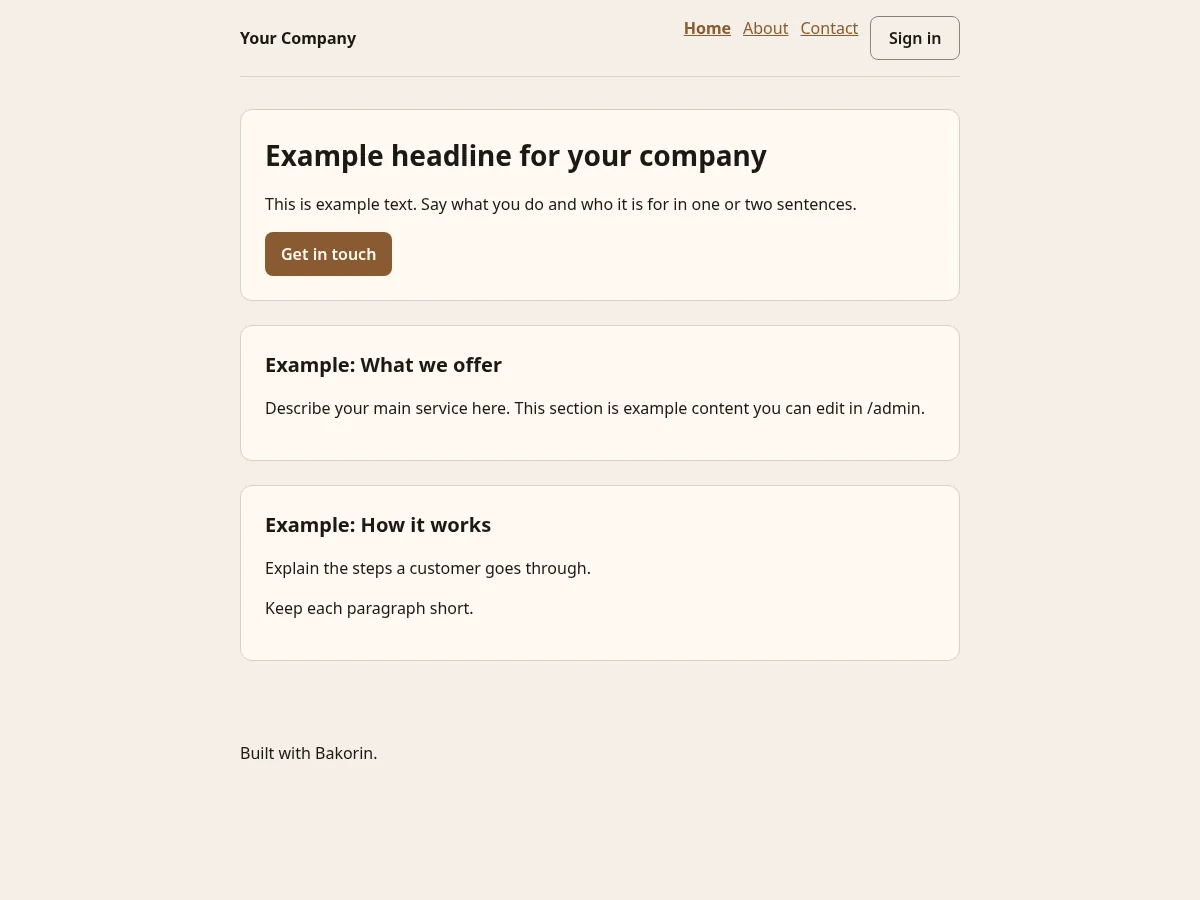
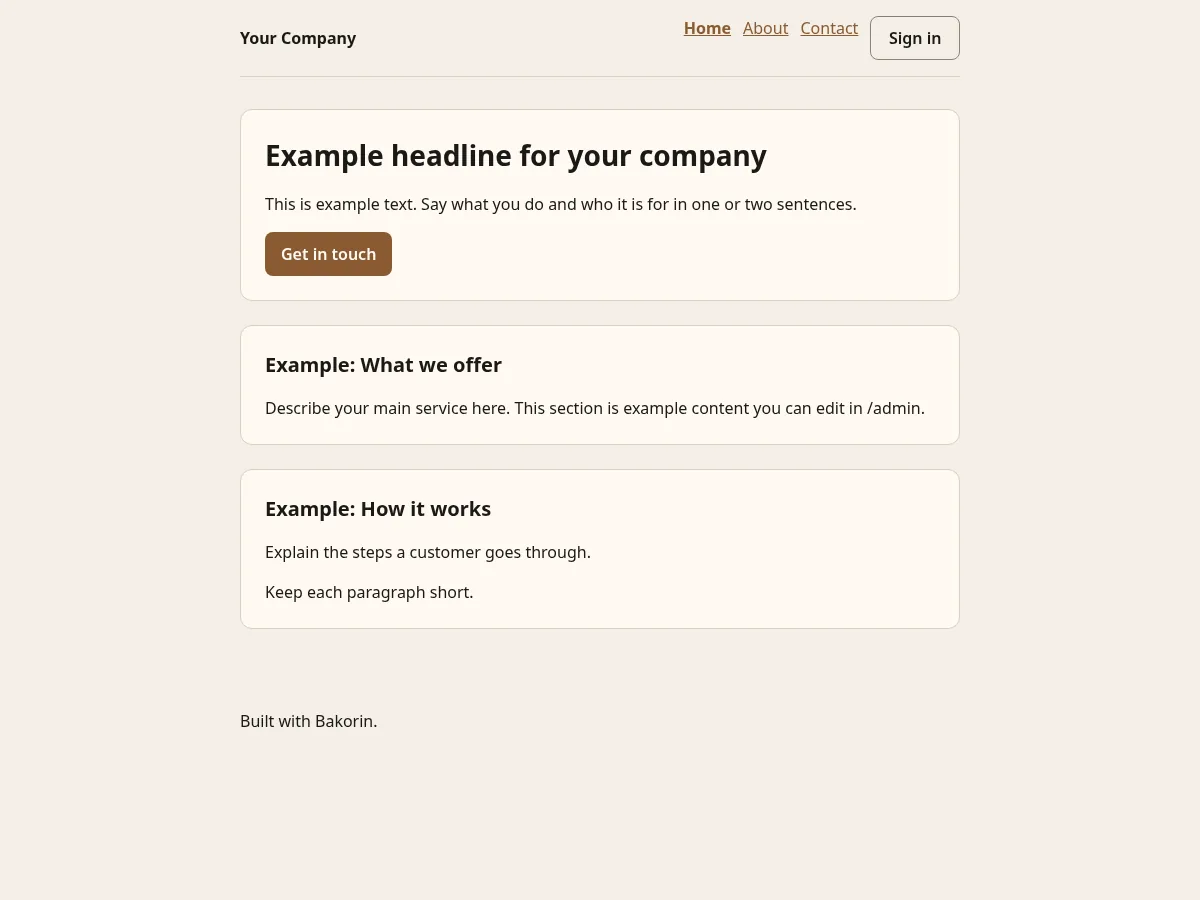
Templates: even card spacing and heights on dashboards and grids
- One 24px rhythm between page blocks (.wrap > * + *) instead of .card + .card,
  which pushed the second card in a side by side row down.
- Side by side cards stretch to one height and share a top edge; columns use
  minmax(0, ...) so long content cannot widen them. Stacks below 800px.
- Cards end on their padding; tile bodies fill the tile.
- Recaptured the template screenshots.

Changed region(s): [[0.2158, 0.56, 0.4933, 0.6844], [0.185, 0.7778, 0.3083, 0.84]]

diff --git a/examples/next-starter/app/globals.css b/examples/next-starter/app/globals.css
@@ -32,7 +32,10 @@
 * { box-sizing: border-box; }
 .skip { position: absolute; left: 8px; top: -48px; padding: 8px 12px; background: var(--paper); border-radius: 8px; }
 .skip:focus { top: 8px; }
-.card + .card { margin-top: 24px; }
+/* Page rhythm: the same 24px between every block on a page. Grids set their own gaps. */
+.wrap > * + * { margin-top: 24px; }
+/* Cards end on their padding, not on a stray paragraph margin. */
+.card > :last-child { margin-bottom: 0; }
 h2 { margin: 0 0 8px; font-size: 1.25rem; }
 html, body { margin: 0; min-height: 100%; background: var(--bg); color: var(--ink); font-family: var(--sans); line-height: 1.5; }
 a { color: var(--accent); }
@@ -111,8 +114,10 @@ nav a[aria-current="page"] {
 }
 
 .tile-body {
+  flex: 1;
   padding: 16px;
   display: grid;
+  align-content: start;
   gap: 6px;
 }
 
@@ -162,8 +167,9 @@ nav a[aria-current="page"] {
 
 @media (min-width: 800px) {
   .split {
-    grid-template-columns: 2fr 1fr;
-    align-items: start;
+    grid-template-columns: minmax(0, 2fr) minmax(0, 1fr);
+    /* Cards side by side share one height and one top edge. */
+    align-items: stretch;
   }
 }
 
@@ -202,10 +208,6 @@ nav a[aria-current="page"] {
   padding: 16px;
   border-radius: 8px;
   margin: 0 0 24px;
-}
-
-.section + .section {
-  margin-top: 24px;
 }
 
 .facts {

diff --git a/packages/create-bakorin/templates/next/app/globals.css b/packages/create-bakorin/templates/next/app/globals.css
@@ -32,7 +32,10 @@
 * { box-sizing: border-box; }
 .skip { position: absolute; left: 8px; top: -48px; padding: 8px 12px; background: var(--paper); border-radius: 8px; }
 .skip:focus { top: 8px; }
-.card + .card { margin-top: 24px; }
+/* Page rhythm: the same 24px between every block on a page. Grids set their own gaps. */
+.wrap > * + * { margin-top: 24px; }
+/* Cards end on their padding, not on a stray paragraph margin. */
+.card > :last-child { margin-bottom: 0; }
 h2 { margin: 0 0 8px; font-size: 1.25rem; }
 html, body { margin: 0; min-height: 100%; background: var(--bg); color: var(--ink); font-family: var(--sans); line-height: 1.5; }
 a { color: var(--accent); }
@@ -111,8 +114,10 @@ nav a[aria-current="page"] {
 }
 
 .tile-body {
+  flex: 1;
   padding: 16px;
   display: grid;
+  align-content: start;
   gap: 6px;
 }
 
@@ -162,8 +167,9 @@ nav a[aria-current="page"] {
 
 @media (min-width: 800px) {
   .split {
-    grid-template-columns: 2fr 1fr;
-    align-items: start;
+    grid-template-columns: minmax(0, 2fr) minmax(0, 1fr);
+    /* Cards side by side share one height and one top edge. */
+    align-items: stretch;
   }
 }
 
@@ -202,10 +208,6 @@ nav a[aria-current="page"] {
   padding: 16px;
   border-radius: 8px;
   margin: 0 0 24px;
-}
-
-.section + .section {
-  margin-top: 24px;
 }
 
 .facts {

diff --git a/examples/astro-starter/src/styles/app.css b/examples/astro-starter/src/styles/app.css
@@ -46,8 +46,14 @@
   top: 8px;
 }
 
-.card + .card {
+/* Page rhythm: the same 24px between every block on a page. Grids set their own gaps. */
+.wrap > * + * {
   margin-top: 24px;
+}
+
+/* Cards end on their padding, not on a stray paragraph margin. */
+.card > :last-child {
+  margin-bottom: 0;
 }
 
 h2 {
@@ -268,8 +274,10 @@ nav a[aria-current="page"] {
 }
 
 .tile-body {
+  flex: 1;
   padding: 16px;
   display: grid;
+  align-content: start;
   gap: 6px;
 }
 
@@ -319,8 +327,9 @@ nav a[aria-current="page"] {
 
 @media (min-width: 800px) {
   .split {
-    grid-template-columns: 2fr 1fr;
-    align-items: start;
+    grid-template-columns: minmax(0, 2fr) minmax(0, 1fr);
+    /* Cards side by side share one height and one top edge. */
+    align-items: stretch;
   }
 }
 
@@ -359,10 +368,6 @@ nav a[aria-current="page"] {
   padding: 16px;
   border-radius: 8px;
   margin: 0 0 24px;
-}
-
-.section + .section {
-  margin-top: 24px;
 }
 
 .facts {

diff --git a/packages/create-bakorin/templates/astro/src/styles/app.css b/packages/create-bakorin/templates/astro/src/styles/app.css
@@ -46,8 +46,14 @@
   top: 8px;
 }
 
-.card + .card {
+/* Page rhythm: the same 24px between every block on a page. Grids set their own gaps. */
+.wrap > * + * {
   margin-top: 24px;
+}
+
+/* Cards end on their padding, not on a stray paragraph margin. */
+.card > :last-child {
+  margin-bottom: 0;
 }
 
 h2 {
@@ -268,8 +274,10 @@ nav a[aria-current="page"] {
 }
 
 .tile-body {
+  flex: 1;
   padding: 16px;
   display: grid;
+  align-content: start;
   gap: 6px;
 }
 
@@ -319,8 +327,9 @@ nav a[aria-current="page"] {
 
 @media (min-width: 800px) {
   .split {
-    grid-template-columns: 2fr 1fr;
-    align-items: start;
+    grid-template-columns: minmax(0, 2fr) minmax(0, 1fr);
+    /* Cards side by side share one height and one top edge. */
+    align-items: stretch;
   }
 }
 
@@ -359,10 +368,6 @@ nav a[aria-current="page"] {
   padding: 16px;
   border-radius: 8px;
   margin: 0 0 24px;
-}
-
-.section + .section {
-  margin-top: 24px;
 }
 
 .facts {
